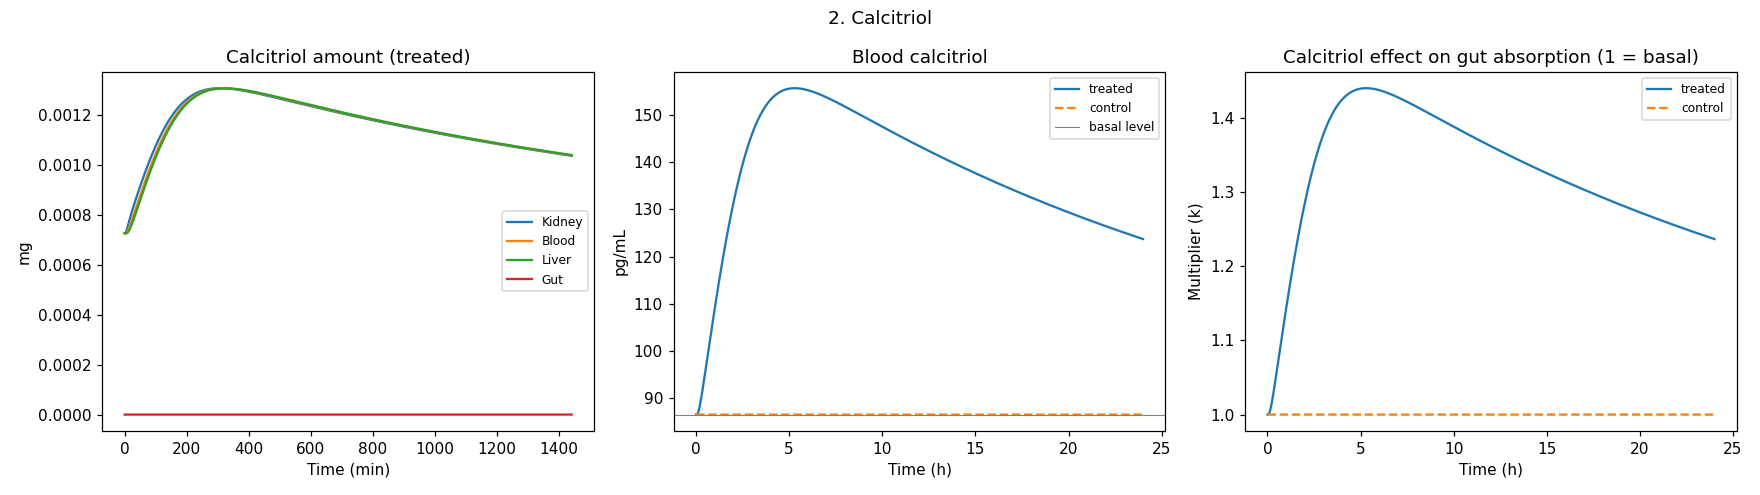
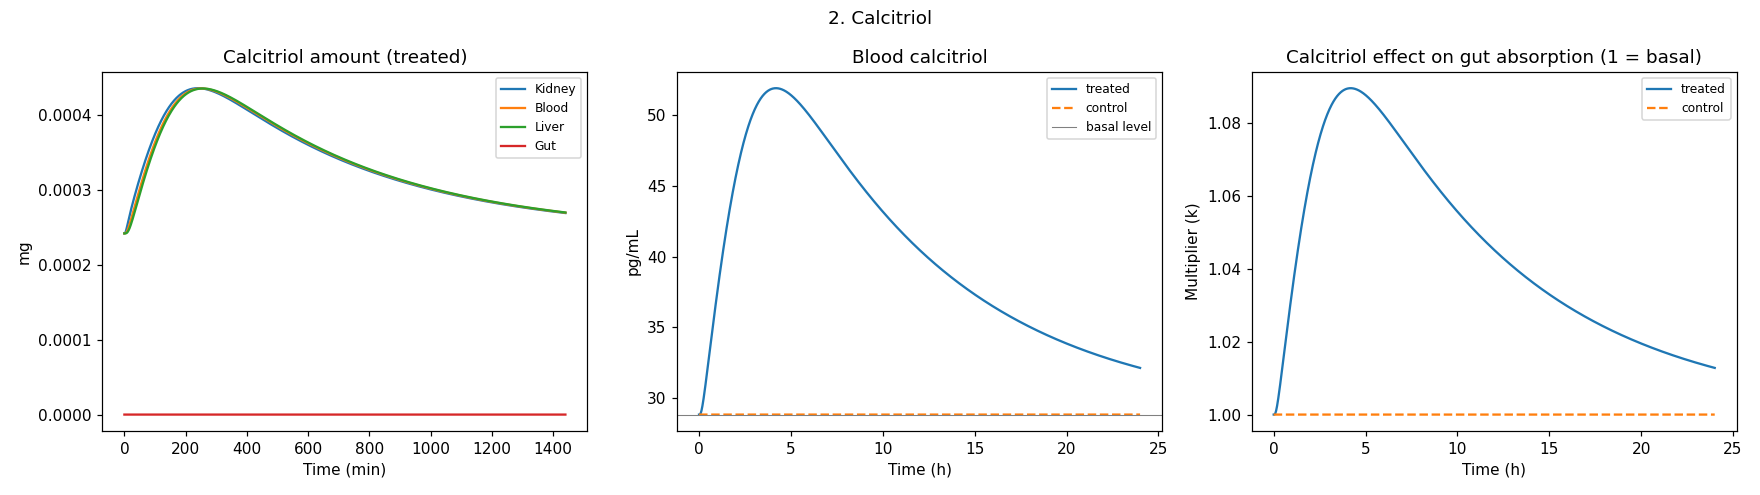
Hopefully final code push, edits are defo welcome after considering figures

diff --git a/calcitriol.py b/calcitriol.py
@@ -1,69 +1,67 @@
 import numpy as np
 
 
-# PARAMETERS
 
-# Calcitriol rate constants
-k_KB_Catr  = None # kidney -> blood
-k_BK_Catr  = None # blood -> kidney
-k_LG_Catr  = None # liver -> gut
-k_GB_Catr  = None # gut -> blood
-k_BL_Catr  = None # blood -> liver
-k_LB_Catr  = None # liver -> blood
-t_half_Catr = None # calcitriol half-life (min)
-k_p_Catr   = None # production in kidney (mass/min)
-k_TPT_Catr = None # extra production from TPT in kidney
+import math
+
+# PARAMETERS (min^-1)
+# Midpoint of the document's listed fast-exchange value/range
+k_kidney_to_blood_calcitriol = 0.2
+k_blood_to_kidney_calcitriol = 0.2
+k_liver_to_gut_calcitriol = None  # No independent value; lumped elimination
+k_gut_to_blood_calcitriol = 0.2
+k_blood_to_liver_calcitriol = 0.2
+K_liver_to_blood_calcitriol = 0.2
+
+# Listed in the document but absent from the original ODEs
+k_blood_to_gut_calcitriol = 0.2
+
+# HALF-LIFE (min)
+# Midpoint of 5-8 hours = 6.5 hours = 390 minutes
+calcitriol_half_life = 390.0
+
+# BASAL PRODUCTION (mg/min)
+# Midpoint: 3.1 pmol/min
+# Molecular weight = 416.64 g/mol
+PMOL_TO_MG = 416.64e-9
+basal_calcitriol_produce_kidney = 3.1 * PMOL_TO_MG
+
+# TPT-dependent production coefficient
+# Not specified numerically in the document
+k_increase_calcitriol_produce_by_TPT = None
 
 
-# INITIAL CONDITIONS
+# INITIAL CONDITIONS (mg)
+# Midpoints of the reported initial mass ranges, converted from pmol to mg
 
-m_CatrK0 = None # kidney
-m_CatrB0 = None # blood
-m_CatrL0 = None # liver
-m_CatrG0 = None # gut
+Initial_calcitriol_kidney = 153.5 * PMOL_TO_MG
+Initial_calcitriol_blood = 273.5 * PMOL_TO_MG
+initial_calcitriol_liver = 891.5 * PMOL_TO_MG
+Initial_calcitriol_GUT_PLACEHOLDER = 594.5 * PMOL_TO_MG
 
-# 1 dose of tpt causes 80% increase in calcitriol
+Initial_calcitriol_gut = Initial_calcitriol_GUT_PLACEHOLDER
 
-mCatr0 = [m_CatrK0, m_CatrB0, m_CatrL0, m_CatrG0]
+initial_calcitriol = [
+    Initial_calcitriol_kidney,
+    Initial_calcitriol_blood,
+    initial_calcitriol_liver,
+    Initial_calcitriol_gut,
+]
 
-# Insert Condition (change to true)
+
+# CONDITIONS: False keeps the healthy baseline.
 osteoporosis = False
 renal_failure = False
 low_estrogen = False
 
-# Copy healthy values to patient
-patient = {
-    "k_LG_Catr": k_LG_Catr,  # liver -> gut
-    "k_BL_Catr": k_BL_Catr,  # blood -> liver
-    "k_LB_Catr": k_LB_Catr,  # liver -> blood
-    "k_KB_Catr": k_KB_Catr,  # kidney -> blood
-    "k_BK_Catr": k_BK_Catr,  # blood -> kidney
-    "k_BG_Catr": k_BG_Catr,  # blood -> gut
-    "k_GB_Catr": k_GB_Catr,  # gut -> blood
-    "k_p_Catr": k_p_Catr,
-    "k_TPT_Catr": k_TPT_Catr,
-    "t_half_Catr": t_half_Catr,
-}
-
-# Osteoporosis
 if osteoporosis:
     print("Osteoporosis has no assumed calcitriol parameter changes.")
 
-# Renal Fail
 if renal_failure:
-    if k_p_Catr is None or t_half_Catr is None:
-        raise ValueError("Enter healthy k_p_Catr and t_half_Catr values first.")
-    patient["k_p_Catr"] = k_p_Catr * (14.2 / 31.8)
-  # k_p_Catr is healthy production rate. The ratio 14.2/31.8 is renal failure rate with healthy rate. The patient produces about 45% as much calcitriol.
-    print("Renal failure causes calcitriol production to decrease about 45% of healthy baseline.")
-    patient["t_half_Catr"] = t_half_Catr / (0.45 / 0.58)
-  # The ratio 0.45/0.58 is existing calcitriol being removed more slowly about 78% of healthy clearance
-    print("Renal failure: half-life increased by about 29%.")
+    if basal_calcitriol_produce_kidney is None or calcitriol_half_life is None:
+        raise ValueError("Fill in healthy calcitriol production and half-life first.")
+    basal_calcitriol_produce_kidney *= 14.2 / 31.8
+    calcitriol_half_life /= 0.45 / 0.58
 
-# Low Estrogen
 if low_estrogen:
     print("Low estrogen has no assumed calcitriol parameter changes.")
-  
-# Show condition effects
-for parameter, value in patient.items():
-    print(f"{parameter} = {value}")

diff --git a/Version 2/main.py b/Version 2/main.py
@@ -32,8 +32,8 @@ import calcium
 
 
 
-osteoporosis = True
-renal_failure = False
+osteoporosis = False
+renal_failure = True
 low_estrogen = False
 if osteoporosis is True:
     calcium.calcitriol_sensitivity= np.random.uniform(0.2, 0.6)

diff --git a/calcium.py b/calcium.py
@@ -42,3 +42,8 @@ m_CaK0  = 0                              # kidney
 # m_CaBo0 defined above (1.0e6 mg)
 
 mCa0 = [m_CaI0, m_CaG0, m_CaB0, m_CaK0, m_CaBo0]
+
+
+
+
+if osteoporosis:
